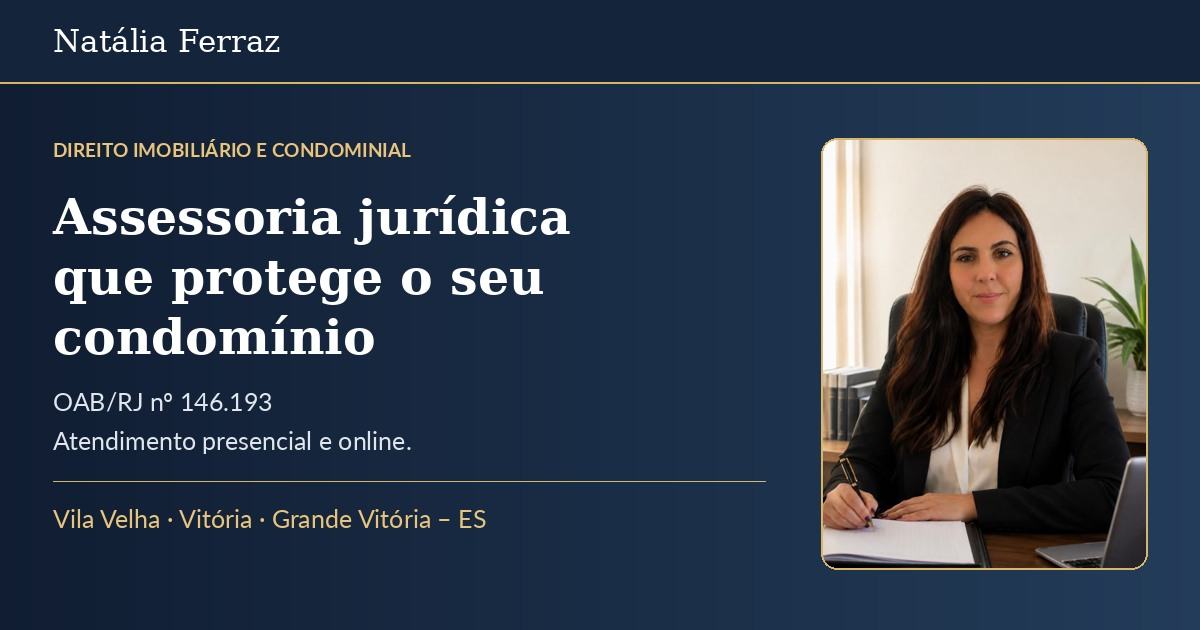
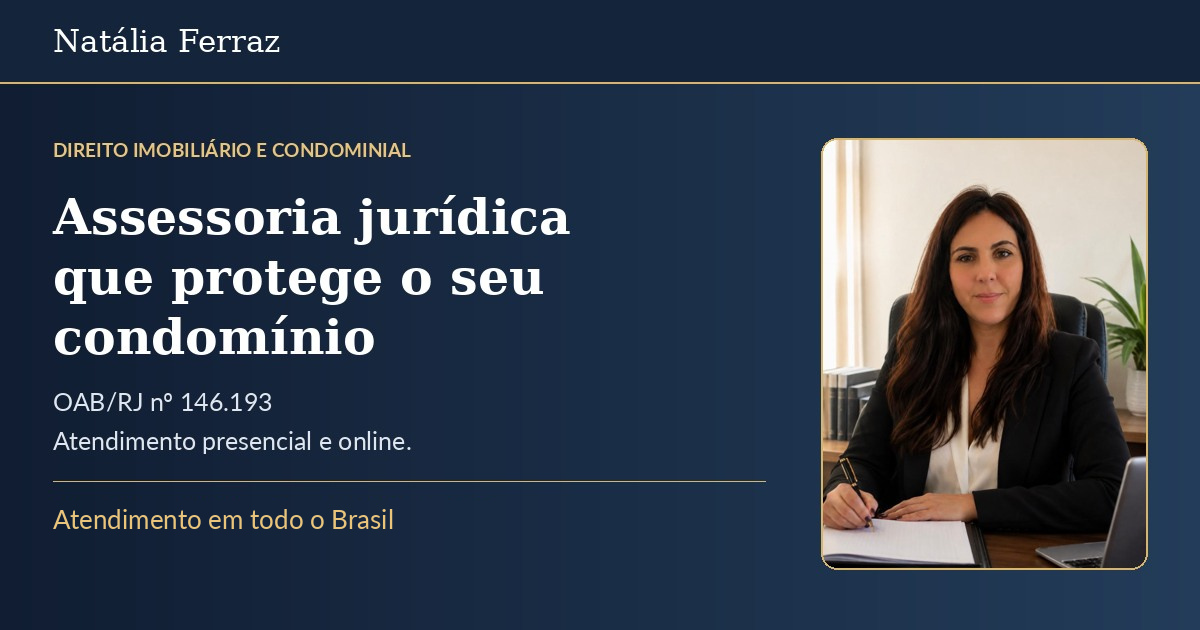
Add files via upload

Changed region(s): [[0.0308, 0.8143, 0.4008, 0.8444]]

diff --git a/index.html b/index.html
@@ -1,16 +1,16 @@
-<!doctype html><html lang="pt-BR"><head><meta charset="utf-8"/><meta content="width=device-width, initial-scale=1" name="viewport"/><meta content="Assessoria jurídica para condomínios, síndicos e administradoras em Vila Velha, Vitória e Grande Vitória – ES." name="description"/><title>Natália Ferraz | Advocacia Condominial e Imobiliária em Vila Velha e Vitória</title><link href="style.css" rel="stylesheet"/><style>.whatsapp-fixo{position:fixed!important;right:22px!important;bottom:22px!important;z-index:2147483000!important;display:flex!important;align-items:center!important;justify-content:center!important;width:64px!important;height:64px!important;min-width:64px!important;min-height:64px!important;box-sizing:border-box!important;padding:13px!important;border-radius:50%!important;background:#25D366!important;color:#fff!important;box-shadow:0 5px 20px rgba(0,0,0,.35)!important;visibility:visible!important;opacity:1!important;transform:none!important;text-decoration:none!important}.whatsapp-fixo svg{display:block!important;width:38px!important;height:38px!important;fill:#fff!important}.whatsapp-fixo .whatsapp-texto{display:none!important}.whatsapp-fixo:hover{background:#128C7E!important}@media(max-width:600px){.whatsapp-fixo{right:16px!important;bottom:16px!important;width:60px!important;height:60px!important;min-width:60px!important;min-height:60px!important}}</style>
+<!doctype html><html lang="pt-BR"><head><meta charset="utf-8"/><meta content="width=device-width, initial-scale=1" name="viewport"/><meta content="Assessoria jurídica para condomínios, síndicos e administradoras em Vila Velha, Vitória e Grande Vitória – ES." name="description"/><title>Natália Ferraz | Advocacia Condominial e Imobiliária</title><link href="style.css" rel="stylesheet"/><style>.whatsapp-fixo{position:fixed!important;right:22px!important;bottom:22px!important;z-index:2147483000!important;display:flex!important;align-items:center!important;justify-content:center!important;width:64px!important;height:64px!important;min-width:64px!important;min-height:64px!important;box-sizing:border-box!important;padding:13px!important;border-radius:50%!important;background:#25D366!important;color:#fff!important;box-shadow:0 5px 20px rgba(0,0,0,.35)!important;visibility:visible!important;opacity:1!important;transform:none!important;text-decoration:none!important}.whatsapp-fixo svg{display:block!important;width:38px!important;height:38px!important;fill:#fff!important}.whatsapp-fixo .whatsapp-texto{display:none!important}.whatsapp-fixo:hover{background:#128C7E!important}@media(max-width:600px){.whatsapp-fixo{right:16px!important;bottom:16px!important;width:60px!important;height:60px!important;min-width:60px!important;min-height:60px!important}}</style>
 <link href="https://www.nataliaferraz.com.br/" rel="canonical"/>
 <meta content="website" property="og:type"/>
 <meta content="Natália Ferraz" property="og:site_name"/>
-<meta content="Natália Ferraz | Advocacia Condominial e Imobiliária em Vila Velha e Vitória" property="og:title"/>
-<meta content="Assessoria jurídica para condomínios, síndicos e administradoras em Vila Velha, Vitória e Grande Vitória – ES." property="og:description"/>
+<meta content="Natália Ferraz | Advocacia Condominial e Imobiliária" property="og:title"/>
+<meta content="Assessoria jurídica para condomínios, síndicos e administradoras em todo o Brasil." property="og:description"/>
 <meta content="https://www.nataliaferraz.com.br/" property="og:url"/>
 <meta content="pt_BR" property="og:locale"/>
 <meta property="og:image" content="https://www.nataliaferraz.com.br/previa-whatsapp.jpg"/>
 <meta property="og:image:type" content="image/jpeg"/>
 <meta property="og:image:width" content="1200"/>
 <meta property="og:image:height" content="630"/>
-<meta property="og:image:alt" content="Natália Ferraz — Direito Imobiliário e Condominial, Vila Velha, Vitória e Grande Vitória"/>
+<meta property="og:image:alt" content="Natália Ferraz — Direito Imobiliário e Condominial, atendimento em todo o Brasil"/>
 
 <script type="application/ld+json">{"@context": "https://schema.org", "@type": "Person", "@id": "https://www.nataliaferraz.com.br/#advogada", "name": "Natália Ferraz", "url": "https://www.nataliaferraz.com.br/", "jobTitle": "Advogada", "image": "https://www.nataliaferraz.com.br/natalia.jpg", "knowsAbout": ["Direito Imobiliário", "Direito Condominial"], "telephone": "+55 24 99914-0991", "email": "nataliaferraz.adv@hotmail.com"}</script>
-<script type="application/ld+json">{"@context": "https://schema.org", "@type": "Service", "serviceType": "Assessoria jurídica imobiliária e condominial", "provider": {"@id": "https://www.nataliaferraz.com.br/#advogada"}, "areaServed": [{"@type": "City", "name": "Vila Velha, ES, Brasil"}, {"@type": "City", "name": "Vitória, ES, Brasil"}, {"@type": "AdministrativeArea", "name": "Grande Vitória, ES, Brasil"}, {"@type": "Country", "name": "Brasil"}]}</script></head><body><header><nav><a class="brand" href="index.html">Natália Ferraz</a><div class="links"><a href="index.html">Início</a><a href="assessoria.html">Por que assessoria</a><a href="sobre.html">Quem sou eu</a><a href="atuacao.html">Atuação</a><a href="planos.html">Modalidades</a><a href="contato.html">Contato</a></div></nav></header><section class="hero"><div class="wrap"><div class="eyebrow" style="color:#e8c47d">Direito Imobiliário e Condominial</div><h1>Assessoria jurídica que protege o seu condomínio</h1><p>Natália Ferraz — OAB/RJ nº 146.193 · Atendimento presencial e online.</p><p>Atuação em todo o território nacional, com especial atenção aos condomínios de Vila Velha, Vitória e demais municípios da Grande Vitória – ES.</p></div></section><section class="section alt"><div class="wrap foto-apresentacao"><img class="portrait" src="natalia.jpg" alt="Fotografia profissional de Natália Ferraz" width="970" height="1280" style="display:block;width:100%;max-width:350px;height:auto;border-radius:16px;margin:0 auto;"><div><h2>Conheça Natália Ferraz</h2><p>Advogada atuante em Direito Imobiliário e Condominial, OAB/RJ nº 146.193.</p><a class="btn" href="sobre.html">Conhecer sua trajetória</a></div></div></section><section aria-label="Experiência e atendimento" style="background:#14243b;color:#fff;padding:32px 24px;"><div class="wrap" style="display:grid;grid-template-columns:repeat(auto-fit,minmax(min(100%,230px),1fr));gap:26px;text-align:center;"><div><strong style="display:block;color:#d9b56a;font-family:Georgia,serif;font-size:clamp(2rem,4vw,3rem);line-height:1.2;">67+</strong><span>Condomínios atendidos</span></div><div><strong style="display:block;color:#d9b56a;font-family:Georgia,serif;font-size:clamp(2rem,4vw,3rem);line-height:1.2;">19 anos</strong><span>De atuação prática na advocacia</span></div><div><strong style="display:block;color:#d9b56a;font-family:Georgia,serif;font-size:clamp(2rem,4vw,3rem);line-height:1.2;">Até 24h</strong><span>Tempo de resposta</span></div></div></section><section class="section alt"><div class="wrap"><div class="eyebrow">Por que ter assessoria</div><h2>Decidir com segurança custa menos do que corrigir</h2><p>Uma orientação preventiva evita a notificação, a ação e o desgaste de assembleias tensas. Veja como a assessoria ajuda a sua gestão no dia a dia.</p><div class="grid"><article class="card" style="border:1px solid #d9b56a;border-radius:14px;padding:26px;text-align:center;display:flex;flex-direction:column;align-items:center;justify-content:center;background:#fff;box-shadow:0 4px 15px rgba(20,36,59,.08);"><div style="display:flex;align-items:center;justify-content:center;width:54px;height:54px;border-radius:12px;background:#14243b;color:#e8c47d;margin-bottom:16px;"><svg xmlns="http://www.w3.org/2000/svg" viewBox="0 0 24 24" width="30" height="30" fill="none" stroke="currentColor" stroke-width="1.6" stroke-linecap="round" stroke-linejoin="round" aria-hidden="true"><rect x="4" y="3" width="16" height="18" rx="2"/><path d="M8 7h8M8 11h2m4 0h2M8 15h2m4 0h2M8 18h2m4 0h2"/></svg></div><h3 style="margin:0;">Custo previsível</h3></article><article class="card" style="border:1px solid #d9b56a;border-radius:14px;padding:26px;text-align:center;display:flex;flex-direction:column;align-items:center;justify-content:center;background:#fff;box-shadow:0 4px 15px rgba(20,36,59,.08);"><div style="display:flex;align-items:center;justify-content:center;width:54px;height:54px;border-radius:12px;background:#14243b;color:#e8c47d;margin-bottom:16px;"><svg xmlns="http://www.w3.org/2000/svg" viewBox="0 0 24 24" width="30" height="30" fill="none" stroke="currentColor" stroke-width="1.6" stroke-linecap="round" stroke-linejoin="round" aria-hidden="true"><path d="M12 22s8-4 8-11V5l-8-3-8 3v6c0 7 8 11 8 11Z"/><path d="m8 12 3 3 5-6"/></svg></div><h3 style="margin:0;">Segurança nas decisões</h3></article><article class="card" style="border:1px solid #d9b56a;border-radius:14px;padding:26px;text-align:center;display:flex;flex-direction:column;align-items:center;justify-content:center;background:#fff;box-shadow:0 4px 15px rgba(20,36,59,.08);"><div style="display:flex;align-items:center;justify-content:center;width:54px;height:54px;border-radius:12px;background:#14243b;color:#e8c47d;margin-bottom:16px;"><svg xmlns="http://www.w3.org/2000/svg" viewBox="0 0 24 24" width="30" height="30" fill="none" stroke="currentColor" stroke-width="1.6" stroke-linecap="round" stroke-linejoin="round" aria-hidden="true"><path d="M21 11a7 7 0 0 1-7 7H7l-4 3v-7a7 7 0 0 1 7-7h4a7 7 0 0 1 7 4Z"/><path d="M8 12h8M8 15h5"/></svg></div><h3 style="margin:0;">Prevenção de conflitos</h3></article></div><p><a class="btn" href="assessoria.html">Entenda a assessoria</a><a class="btn secondary" href="https://wa.me/5524999140991?text=Ol%C3%A1%2C%20Dra.%20Nat%C3%A1lia%21%20Gostaria%20de%20informa%C3%A7%C3%B5es%20sobre%20assessoria%20jur%C3%ADdica." target="_blank" rel="noopener noreferrer">Falar com a advogada</a></p></div></section><section class="section "><div class="wrap"><h2>Conheça a atuação</h2><div class="grid"><article class="card" style="border:1px solid #d9b56a;border-radius:14px;padding:26px;text-align:center;display:flex;flex-direction:column;align-items:center;justify-content:center;background:#fff;box-shadow:0 4px 15px rgba(20,36,59,.08);"><div style="display:flex;align-items:center;justify-content:center;width:54px;height:54px;border-radius:12px;background:#14243b;color:#e8c47d;margin-bottom:16px;"><svg xmlns="http://www.w3.org/2000/svg" viewBox="0 0 24 24" width="30" height="30" fill="none" stroke="currentColor" stroke-width="1.6" stroke-linecap="round" stroke-linejoin="round" aria-hidden="true"><rect x="5" y="3" width="14" height="18" rx="2"/><path d="M9 8h6M9 12h6M9 16h4"/></svg></div><h3 style="margin:0;">Consultivo e extrajudicial</h3></article><article class="card" style="border:1px solid #d9b56a;border-radius:14px;padding:26px;text-align:center;display:flex;flex-direction:column;align-items:center;justify-content:center;background:#fff;box-shadow:0 4px 15px rgba(20,36,59,.08);"><div style="display:flex;align-items:center;justify-content:center;width:54px;height:54px;border-radius:12px;background:#14243b;color:#e8c47d;margin-bottom:16px;"><svg xmlns="http://www.w3.org/2000/svg" viewBox="0 0 24 24" width="30" height="30" fill="none" stroke="currentColor" stroke-width="1.6" stroke-linecap="round" stroke-linejoin="round" aria-hidden="true"><path d="M12 3v18M8 21h8M3 7h18M6 7l-4 8h8L6 7M18 7l-4 8h8l-4-8"/></svg></div><h3 style="margin:0;">Contencioso judicial</h3></article><article class="card" style="border:1px solid #d9b56a;border-radius:14px;padding:26px;text-align:center;display:flex;flex-direction:column;align-items:center;justify-content:center;background:#fff;box-shadow:0 4px 15px rgba(20,36,59,.08);"><div style="display:flex;align-items:center;justify-content:center;width:54px;height:54px;border-radius:12px;background:#14243b;color:#e8c47d;margin-bottom:16px;"><svg xmlns="http://www.w3.org/2000/svg" viewBox="0 0 24 24" width="30" height="30" fill="none" stroke="currentColor" stroke-width="1.6" stroke-linecap="round" stroke-linejoin="round" aria-hidden="true"><circle cx="12" cy="6" r="3"/><path d="M6 20v-3a6 6 0 0 1 12 0v3M4 9a3 3 0 0 0 0 6M20 9a3 3 0 0 1 0 6M2 20v-2M22 20v-2"/></svg></div><h3 style="margin:0;">Assembleias</h3></article></div><p><a class="btn" href="atuacao.html">Entenda a atuação</a></p></div></section><section class="section alt"><div class="wrap"><h2>Três modalidades de acompanhamento</h2><div class="grid"><article class="card"><h3>Essencial</h3><p>Consultoria jurídica preventiva.</p></article><article class="card"><h3>Gestão</h3><p>Consultoria com apoio em assembleias e cobrança.</p></article><article class="card"><h3>Integral</h3><p>Atuação jurídica ampliada, inclusive contenciosa, conforme contratação.</p></article></div><p><a class="btn" href="planos.html">Conhecer as modalidades</a></p></div></section><footer><div class="wrap"><strong>Natália Passos Ferraz</strong><p>Advocacia Imobiliária e Condominial · OAB/RJ nº 146.193</p><p><a href="contato.html">Contato</a> · <a href="mailto:nataliaferraz.adv@hotmail.com">E-mail</a> · <a href="https://wa.me/5524999140991?text=Ol%C3%A1%2C%20Dra.%20Nat%C3%A1lia%21%20Gostaria%20de%20informa%C3%A7%C3%B5es%20sobre%20assessoria%20jur%C3%ADdica." target="_blank" rel="noopener noreferrer">WhatsApp</a></p><small>© 2026 Natália Passos Ferraz. Todos os direitos reservados.</small></div></footer><a class="whatsapp-fixo" href="https://wa.me/5524999140991?text=Ol%C3%A1%2C%20Dra.%20Nat%C3%A1lia%21%20Gostaria%20de%20informa%C3%A7%C3%B5es%20sobre%20assessoria%20jur%C3%ADdica." target="_blank" rel="noopener noreferrer" aria-label="Conversar com Natália pelo WhatsApp"><svg xmlns="http://www.w3.org/2000/svg" viewBox="0 0 32 32" width="31" height="31" aria-hidden="true"><path fill="currentColor" d="M16.03 3.2A12.7 12.7 0 0 0 5.1 22.4L3.4 28.7l6.5-1.7a12.8 12.8 0 1 0 6.13-23.8Zm0 23.3a10.5 10.5 0 0 1-5.35-1.46l-.38-.23-3.87 1.02 1.03-3.77-.25-.39A10.56 10.56 0 1 1 16.03 26.5Zm5.8-7.9c-.32-.16-1.9-.94-2.2-1.04-.3-.11-.51-.16-.73.16-.22.32-.84 1.04-1.03 1.25-.19.21-.38.24-.7.08-.32-.16-1.36-.5-2.58-1.59-.95-.85-1.6-1.9-1.79-2.22-.19-.32-.02-.49.14-.65.14-.14.32-.37.48-.56.16-.19.21-.32.32-.53.11-.21.05-.4-.03-.56-.08-.16-.73-1.76-1-2.41-.26-.63-.53-.54-.73-.55h-.62c-.22 0-.56.08-.86.4-.3.32-1.13 1.11-1.13 2.71s1.16 3.15 1.32 3.36c.16.21 2.29 3.5 5.55 4.91.78.34 1.39.54 1.86.69.78.25 1.5.21 2.06.13.63-.09 1.9-.78 2.17-1.53.27-.75.27-1.39.19-1.53-.08-.13-.3-.21-.62-.37Z"/></svg><span class="whatsapp-texto">WhatsApp</span></a></body></html>
+<script type="application/ld+json">{"@context": "https://schema.org", "@type": "Service", "serviceType": "Assessoria jurídica imobiliária e condominial", "provider": {"@id": "https://www.nataliaferraz.com.br/#advogada"}, "areaServed": [{"@type": "City", "name": "Vila Velha, ES, Brasil"}, {"@type": "City", "name": "Vitória, ES, Brasil"}, {"@type": "AdministrativeArea", "name": "Grande Vitória, ES, Brasil"}, {"@type": "Country", "name": "Brasil"}]}</script></head><body><header><nav><a class="brand" href="index.html">Natália Ferraz</a><div class="links"><a href="index.html">Início</a><a href="assessoria.html">Por que assessoria</a><a href="sobre.html">Quem sou eu</a><a href="atuacao.html">Atuação</a><a href="planos.html">Modalidades</a><a href="contato.html">Contato</a></div></nav></header><section class="hero"><div class="wrap"><div class="eyebrow" style="color:#e8c47d">Direito Imobiliário e Condominial</div><h1>Assessoria jurídica que protege o seu condomínio</h1><p>Natália Ferraz — OAB/RJ nº 146.193 · Atendimento presencial e online.</p><p>Atuação em todo o território nacional.</p></div></section><section class="section alt"><div class="wrap foto-apresentacao"><img class="portrait" src="natalia.jpg" alt="Fotografia profissional de Natália Ferraz" width="970" height="1280" style="display:block;width:100%;max-width:350px;height:auto;border-radius:16px;margin:0 auto;"><div><h2>Conheça Natália Ferraz</h2><p>Advogada atuante em Direito Imobiliário e Condominial, OAB/RJ nº 146.193.</p><a class="btn" href="sobre.html">Conhecer sua trajetória</a></div></div></section><section aria-label="Experiência e atendimento" style="background:#14243b;color:#fff;padding:32px 24px;"><div class="wrap" style="display:grid;grid-template-columns:repeat(auto-fit,minmax(min(100%,230px),1fr));gap:26px;text-align:center;"><div><strong style="display:block;color:#d9b56a;font-family:Georgia,serif;font-size:clamp(2rem,4vw,3rem);line-height:1.2;">67+</strong><span>Condomínios atendidos</span></div><div><strong style="display:block;color:#d9b56a;font-family:Georgia,serif;font-size:clamp(2rem,4vw,3rem);line-height:1.2;">19 anos</strong><span>De atuação prática na advocacia</span></div><div><strong style="display:block;color:#d9b56a;font-family:Georgia,serif;font-size:clamp(2rem,4vw,3rem);line-height:1.2;">Até 24h</strong><span>Tempo de resposta</span></div></div></section><section class="section alt"><div class="wrap"><div class="eyebrow">Por que ter assessoria</div><h2>Decidir com segurança custa menos do que corrigir</h2><p>Uma orientação preventiva evita a notificação, a ação e o desgaste de assembleias tensas. Veja como a assessoria ajuda a sua gestão no dia a dia.</p><div class="grid"><article class="card" style="border:1px solid #d9b56a;border-radius:14px;padding:26px;text-align:center;display:flex;flex-direction:column;align-items:center;justify-content:center;background:#fff;box-shadow:0 4px 15px rgba(20,36,59,.08);"><div style="display:flex;align-items:center;justify-content:center;width:54px;height:54px;border-radius:12px;background:#14243b;color:#e8c47d;margin-bottom:16px;"><svg xmlns="http://www.w3.org/2000/svg" viewBox="0 0 24 24" width="30" height="30" fill="none" stroke="currentColor" stroke-width="1.6" stroke-linecap="round" stroke-linejoin="round" aria-hidden="true"><rect x="4" y="3" width="16" height="18" rx="2"/><path d="M8 7h8M8 11h2m4 0h2M8 15h2m4 0h2M8 18h2m4 0h2"/></svg></div><h3 style="margin:0;">Custo previsível</h3></article><article class="card" style="border:1px solid #d9b56a;border-radius:14px;padding:26px;text-align:center;display:flex;flex-direction:column;align-items:center;justify-content:center;background:#fff;box-shadow:0 4px 15px rgba(20,36,59,.08);"><div style="display:flex;align-items:center;justify-content:center;width:54px;height:54px;border-radius:12px;background:#14243b;color:#e8c47d;margin-bottom:16px;"><svg xmlns="http://www.w3.org/2000/svg" viewBox="0 0 24 24" width="30" height="30" fill="none" stroke="currentColor" stroke-width="1.6" stroke-linecap="round" stroke-linejoin="round" aria-hidden="true"><path d="M12 22s8-4 8-11V5l-8-3-8 3v6c0 7 8 11 8 11Z"/><path d="m8 12 3 3 5-6"/></svg></div><h3 style="margin:0;">Segurança nas decisões</h3></article><article class="card" style="border:1px solid #d9b56a;border-radius:14px;padding:26px;text-align:center;display:flex;flex-direction:column;align-items:center;justify-content:center;background:#fff;box-shadow:0 4px 15px rgba(20,36,59,.08);"><div style="display:flex;align-items:center;justify-content:center;width:54px;height:54px;border-radius:12px;background:#14243b;color:#e8c47d;margin-bottom:16px;"><svg xmlns="http://www.w3.org/2000/svg" viewBox="0 0 24 24" width="30" height="30" fill="none" stroke="currentColor" stroke-width="1.6" stroke-linecap="round" stroke-linejoin="round" aria-hidden="true"><path d="M21 11a7 7 0 0 1-7 7H7l-4 3v-7a7 7 0 0 1 7-7h4a7 7 0 0 1 7 4Z"/><path d="M8 12h8M8 15h5"/></svg></div><h3 style="margin:0;">Prevenção de conflitos</h3></article></div><p><a class="btn" href="assessoria.html">Entenda a assessoria</a><a class="btn secondary" href="https://wa.me/5524999140991?text=Ol%C3%A1%2C%20Dra.%20Nat%C3%A1lia%21%20Gostaria%20de%20informa%C3%A7%C3%B5es%20sobre%20assessoria%20jur%C3%ADdica." target="_blank" rel="noopener noreferrer">Falar com a advogada</a></p></div></section><section class="section "><div class="wrap"><h2>Conheça a atuação</h2><div class="grid"><article class="card" style="border:1px solid #d9b56a;border-radius:14px;padding:26px;text-align:center;display:flex;flex-direction:column;align-items:center;justify-content:center;background:#fff;box-shadow:0 4px 15px rgba(20,36,59,.08);"><div style="display:flex;align-items:center;justify-content:center;width:54px;height:54px;border-radius:12px;background:#14243b;color:#e8c47d;margin-bottom:16px;"><svg xmlns="http://www.w3.org/2000/svg" viewBox="0 0 24 24" width="30" height="30" fill="none" stroke="currentColor" stroke-width="1.6" stroke-linecap="round" stroke-linejoin="round" aria-hidden="true"><rect x="5" y="3" width="14" height="18" rx="2"/><path d="M9 8h6M9 12h6M9 16h4"/></svg></div><h3 style="margin:0;">Consultivo e extrajudicial</h3></article><article class="card" style="border:1px solid #d9b56a;border-radius:14px;padding:26px;text-align:center;display:flex;flex-direction:column;align-items:center;justify-content:center;background:#fff;box-shadow:0 4px 15px rgba(20,36,59,.08);"><div style="display:flex;align-items:center;justify-content:center;width:54px;height:54px;border-radius:12px;background:#14243b;color:#e8c47d;margin-bottom:16px;"><svg xmlns="http://www.w3.org/2000/svg" viewBox="0 0 24 24" width="30" height="30" fill="none" stroke="currentColor" stroke-width="1.6" stroke-linecap="round" stroke-linejoin="round" aria-hidden="true"><path d="M12 3v18M8 21h8M3 7h18M6 7l-4 8h8L6 7M18 7l-4 8h8l-4-8"/></svg></div><h3 style="margin:0;">Contencioso judicial</h3></article><article class="card" style="border:1px solid #d9b56a;border-radius:14px;padding:26px;text-align:center;display:flex;flex-direction:column;align-items:center;justify-content:center;background:#fff;box-shadow:0 4px 15px rgba(20,36,59,.08);"><div style="display:flex;align-items:center;justify-content:center;width:54px;height:54px;border-radius:12px;background:#14243b;color:#e8c47d;margin-bottom:16px;"><svg xmlns="http://www.w3.org/2000/svg" viewBox="0 0 24 24" width="30" height="30" fill="none" stroke="currentColor" stroke-width="1.6" stroke-linecap="round" stroke-linejoin="round" aria-hidden="true"><circle cx="12" cy="6" r="3"/><path d="M6 20v-3a6 6 0 0 1 12 0v3M4 9a3 3 0 0 0 0 6M20 9a3 3 0 0 1 0 6M2 20v-2M22 20v-2"/></svg></div><h3 style="margin:0;">Assembleias</h3></article></div><p><a class="btn" href="atuacao.html">Entenda a atuação</a></p></div></section><section class="section alt"><div class="wrap"><h2>Três modalidades de acompanhamento</h2><div class="grid"><article class="card"><h3>Essencial</h3><p>Consultoria jurídica preventiva.</p></article><article class="card"><h3>Gestão</h3><p>Consultoria com apoio em assembleias e cobrança.</p></article><article class="card"><h3>Integral</h3><p>Atuação jurídica ampliada, inclusive contenciosa, conforme contratação.</p></article></div><p><a class="btn" href="planos.html">Conhecer as modalidades</a></p></div></section><footer><div class="wrap"><strong>Natália Passos Ferraz</strong><p>Advocacia Imobiliária e Condominial · OAB/RJ nº 146.193</p><p><a href="contato.html">Contato</a> · <a href="mailto:nataliaferraz.adv@hotmail.com">E-mail</a> · <a href="https://wa.me/5524999140991?text=Ol%C3%A1%2C%20Dra.%20Nat%C3%A1lia%21%20Gostaria%20de%20informa%C3%A7%C3%B5es%20sobre%20assessoria%20jur%C3%ADdica." target="_blank" rel="noopener noreferrer">WhatsApp</a></p><small>© 2026 Natália Passos Ferraz. Todos os direitos reservados.</small></div></footer><a class="whatsapp-fixo" href="https://wa.me/5524999140991?text=Ol%C3%A1%2C%20Dra.%20Nat%C3%A1lia%21%20Gostaria%20de%20informa%C3%A7%C3%B5es%20sobre%20assessoria%20jur%C3%ADdica." target="_blank" rel="noopener noreferrer" aria-label="Conversar com Natália pelo WhatsApp"><svg xmlns="http://www.w3.org/2000/svg" viewBox="0 0 32 32" width="31" height="31" aria-hidden="true"><path fill="currentColor" d="M16.03 3.2A12.7 12.7 0 0 0 5.1 22.4L3.4 28.7l6.5-1.7a12.8 12.8 0 1 0 6.13-23.8Zm0 23.3a10.5 10.5 0 0 1-5.35-1.46l-.38-.23-3.87 1.02 1.03-3.77-.25-.39A10.56 10.56 0 1 1 16.03 26.5Zm5.8-7.9c-.32-.16-1.9-.94-2.2-1.04-.3-.11-.51-.16-.73.16-.22.32-.84 1.04-1.03 1.25-.19.21-.38.24-.7.08-.32-.16-1.36-.5-2.58-1.59-.95-.85-1.6-1.9-1.79-2.22-.19-.32-.02-.49.14-.65.14-.14.32-.37.48-.56.16-.19.21-.32.32-.53.11-.21.05-.4-.03-.56-.08-.16-.73-1.76-1-2.41-.26-.63-.53-.54-.73-.55h-.62c-.22 0-.56.08-.86.4-.3.32-1.13 1.11-1.13 2.71s1.16 3.15 1.32 3.36c.16.21 2.29 3.5 5.55 4.91.78.34 1.39.54 1.86.69.78.25 1.5.21 2.06.13.63-.09 1.9-.78 2.17-1.53.27-.75.27-1.39.19-1.53-.08-.13-.3-.21-.62-.37Z"/></svg><span class="whatsapp-texto">WhatsApp</span></a></body></html>

diff --git a/sobre.html b/sobre.html
@@ -1,10 +1,10 @@
 <!DOCTYPE html>
-<html lang="pt-BR"><head><meta charset="utf-8"/><meta content="width=device-width, initial-scale=1" name="viewport"/><meta content="Conheça a trajetória e formação de Natália Ferraz, OAB/RJ nº 146.193, com atuação na Grande Vitória – ES." name="description"/><title>Natália Ferraz | Advogada Imobiliária e Condominial em Vila Velha e Vitória</title><link href="style.css" rel="stylesheet"/><style id="whatsapp-flutuante-estilo">.whatsapp-fixo{position:fixed!important;right:22px!important;bottom:22px!important;z-index:2147483000!important;display:flex!important;align-items:center!important;justify-content:center!important;width:64px!important;height:64px!important;min-width:64px!important;min-height:64px!important;box-sizing:border-box!important;padding:13px!important;border-radius:50%!important;background:#25D366!important;color:#fff!important;box-shadow:0 5px 20px rgba(0,0,0,.35)!important;visibility:visible!important;opacity:1!important;transform:none!important;text-decoration:none!important}.whatsapp-fixo svg{display:block!important;width:38px!important;height:38px!important;fill:#fff!important}.whatsapp-fixo .whatsapp-texto{display:none!important}.whatsapp-fixo:hover{background:#128C7E!important}@media(max-width:600px){.whatsapp-fixo{right:16px!important;bottom:16px!important;width:60px!important;height:60px!important;min-width:60px!important;min-height:60px!important}}</style><style>@media(max-width:650px){.retrato-natalia{float:none!important;width:min(100%,320px)!important;margin:0 auto 24px!important}}</style>
+<html lang="pt-BR"><head><meta charset="utf-8"/><meta content="width=device-width, initial-scale=1" name="viewport"/><meta content="Conheça a trajetória e formação de Natália Ferraz, OAB/RJ nº 146.193, com atuação na Grande Vitória – ES." name="description"/><title>Natália Ferraz | Advogada Imobiliária e Condominial</title><link href="style.css" rel="stylesheet"/><style id="whatsapp-flutuante-estilo">.whatsapp-fixo{position:fixed!important;right:22px!important;bottom:22px!important;z-index:2147483000!important;display:flex!important;align-items:center!important;justify-content:center!important;width:64px!important;height:64px!important;min-width:64px!important;min-height:64px!important;box-sizing:border-box!important;padding:13px!important;border-radius:50%!important;background:#25D366!important;color:#fff!important;box-shadow:0 5px 20px rgba(0,0,0,.35)!important;visibility:visible!important;opacity:1!important;transform:none!important;text-decoration:none!important}.whatsapp-fixo svg{display:block!important;width:38px!important;height:38px!important;fill:#fff!important}.whatsapp-fixo .whatsapp-texto{display:none!important}.whatsapp-fixo:hover{background:#128C7E!important}@media(max-width:600px){.whatsapp-fixo{right:16px!important;bottom:16px!important;width:60px!important;height:60px!important;min-width:60px!important;min-height:60px!important}}</style><style>@media(max-width:650px){.retrato-natalia{float:none!important;width:min(100%,320px)!important;margin:0 auto 24px!important}}</style>
 <link href="https://www.nataliaferraz.com.br/sobre.html" rel="canonical"/>
 <meta content="website" property="og:type"/>
 <meta content="Natália Ferraz" property="og:site_name"/>
-<meta content="Natália Ferraz | Advogada Imobiliária e Condominial em Vila Velha e Vitória" property="og:title"/>
-<meta content="Conheça a trajetória e formação de Natália Ferraz, OAB/RJ nº 146.193, com atuação na Grande Vitória – ES." property="og:description"/>
+<meta content="Natália Ferraz | Advogada Imobiliária e Condominial" property="og:title"/>
+<meta content="Conheça a trajetória e formação de Natália Ferraz, OAB/RJ nº 146.193, com atuação em todo o Brasil." property="og:description"/>
 <meta content="https://www.nataliaferraz.com.br/sobre.html" property="og:url"/>
 <meta content="pt_BR" property="og:locale"/>
-</head><body><header><nav><a class="brand" href="index.html">Natália Ferraz</a><div class="links"><a href="index.html">Início</a><a href="assessoria.html">Por que assessoria</a><a href="sobre.html">Quem sou eu</a><a href="atuacao.html">Atuação</a><a href="planos.html">Modalidades</a><a href="contato.html">Contato</a></div></nav></header><div class="wrap" style="padding-top:16px;padding-bottom:16px"><a href="index.html" onclick="if(document.referrer){try{var u=new URL(document.referrer);if(u.origin===location.origin &amp;&amp; history.length&gt;1){history.back();return false;}}catch(e){}}" style="display:inline-flex;align-items:center;gap:8px;border:1px solid #b99a60;border-radius:7px;padding:8px 16px;color:#14243b;background:#fff;text-decoration:none;font-weight:600"><span aria-hidden="true" style="color:#a08040">&#8592;</span> Voltar</a></div><section class="hero"><div class="wrap"><div class="eyebrow" style="color:#e8c47d">Quem sou eu</div><h1>Natália Ferraz</h1><p>Advogada · Direito Imobiliário e Condominial</p></div></section><section class="section"><div class="wrap"><figure style="float:right;width:min(38%,320px);margin:0 0 24px 28px" class="retrato-natalia"><img src="natalia.jpg" alt="Fotografia profissional de Natália Ferraz" width="970" height="1280" style="display:block;width:100%;height:auto;border-radius:8px"></figure><h2>Trajetória profissional</h2><p>Nascida em Volta Redonda, no Rio de Janeiro, sou formada há 19 anos e construí minha atuação prática na advocacia com foco no Direito Imobiliário e Condominial. Atuo tanto no âmbito consultivo e extrajudicial, orientando síndicos e administradoras nas decisões do dia a dia, quanto no contencioso judicial, na condução de cobranças, execuções e defesas cíveis.</p><p>Hoje acompanho mais de 67 condomínios, o que me deu um repertório que nenhum manual entrega: as assembleias tensas, a inadimplência que aperta o caixa, o conflito entre vizinhos que vira processo. É esse conhecimento acumulado que coloco à disposição da sua gestão.</p><p>Minha atuação abrange todo o território nacional, com especial atenção aos condomínios de Vila Velha, Vitória e demais municípios da Grande Vitória – ES.</p></div></section><section class="section alt"><div class="wrap"><h2>Formação e participação institucional</h2><ul><li>Pós-graduação em Direito Condominial</li><li>Pós-graduação em Direito Negocial e Imobiliário</li><li>Graduação em Francês e Cultura Francesa — Université Sorbonne Nouvelle, Paris</li></ul><h3>Formação multidisciplinar, não apenas jurídica.</h3><p>A pós-graduação em Direito Condominial sustenta a técnica; a pós em Direito Negocial e Imobiliário amplia a leitura de contratos, incorporações e negociações; e a graduação em Francês e Cultura Francesa pela Université Sorbonne Nouvelle, em Paris, agrega a capacidade de atuar com documentação e interlocutores estrangeiros — um diferencial real em condomínios com moradores, investidores ou prestadores internacionais, e um repertório de comunicação que ajuda em qualquer negociação difícil.</p><p><a href="https://www.linkedin.com/in/nat%C3%A1lia-passos-ferraz-a0046643b/" rel="noopener noreferrer" target="_blank">Perfil profissional no LinkedIn</a></p><p>Participação institucional: Integrante da Comissão de Direito Condominial da OAB/VRRJ</p></div></section><footer><div class="wrap"><strong>Natália Passos Ferraz</strong><p>Advocacia Imobiliária e Condominial · OAB/RJ nº 146.193</p><p><a href="contato.html">Contato</a> · <a href="mailto:nataliaferraz.adv@hotmail.com">E-mail</a> · <a href="https://wa.me/5524999140991?text=Ol%C3%A1%2C%20Dra.%20Nat%C3%A1lia%21%20Gostaria%20de%20informa%C3%A7%C3%B5es%20sobre%20assessoria%20jur%C3%ADdica." rel="noopener noreferrer" target="_blank">WhatsApp</a></p><small>© 2026 Natália Passos Ferraz. Todos os direitos reservados.</small></div></footer><a aria-label="Conversar com Natália pelo WhatsApp" class="whatsapp-fixo" href="https://wa.me/5524999140991?text=Ol%C3%A1%2C%20Dra.%20Nat%C3%A1lia%21%20Gostaria%20de%20informa%C3%A7%C3%B5es%20sobre%20assessoria%20jur%C3%ADdica." rel="noopener noreferrer" target="_blank"><svg aria-hidden="true" height="31" viewBox="0 0 32 32" width="31" xmlns="http://www.w3.org/2000/svg"><path d="M16.03 3.2A12.7 12.7 0 0 0 5.1 22.4L3.4 28.7l6.5-1.7a12.8 12.8 0 1 0 6.13-23.8Zm0 23.3a10.5 10.5 0 0 1-5.35-1.46l-.38-.23-3.87 1.02 1.03-3.77-.25-.39A10.56 10.56 0 1 1 16.03 26.5Zm5.8-7.9c-.32-.16-1.9-.94-2.2-1.04-.3-.11-.51-.16-.73.16-.22.32-.84 1.04-1.03 1.25-.19.21-.38.24-.7.08-.32-.16-1.36-.5-2.58-1.59-.95-.85-1.6-1.9-1.79-2.22-.19-.32-.02-.49.14-.65.14-.14.32-.37.48-.56.16-.19.21-.32.32-.53.11-.21.05-.4-.03-.56-.08-.16-.73-1.76-1-2.41-.26-.63-.53-.54-.73-.55h-.62c-.22 0-.56.08-.86.4-.3.32-1.13 1.11-1.13 2.71s1.16 3.15 1.32 3.36c.16.21 2.29 3.5 5.55 4.91.78.34 1.39.54 1.86.69.78.25 1.5.21 2.06.13.63-.09 1.9-.78 2.17-1.53.27-.75.27-1.39.19-1.53-.08-.13-.3-.21-.62-.37Z" fill="currentColor"></path></svg><span class="whatsapp-texto">WhatsApp</span></a></body></html>
+</head><body><header><nav><a class="brand" href="index.html">Natália Ferraz</a><div class="links"><a href="index.html">Início</a><a href="assessoria.html">Por que assessoria</a><a href="sobre.html">Quem sou eu</a><a href="atuacao.html">Atuação</a><a href="planos.html">Modalidades</a><a href="contato.html">Contato</a></div></nav></header><div class="wrap" style="padding-top:16px;padding-bottom:16px"><a href="index.html" onclick="if(document.referrer){try{var u=new URL(document.referrer);if(u.origin===location.origin &amp;&amp; history.length&gt;1){history.back();return false;}}catch(e){}}" style="display:inline-flex;align-items:center;gap:8px;border:1px solid #b99a60;border-radius:7px;padding:8px 16px;color:#14243b;background:#fff;text-decoration:none;font-weight:600"><span aria-hidden="true" style="color:#a08040">&#8592;</span> Voltar</a></div><section class="hero"><div class="wrap"><div class="eyebrow" style="color:#e8c47d">Quem sou eu</div><h1>Natália Ferraz</h1><p>Advogada · Direito Imobiliário e Condominial</p></div></section><section class="section"><div class="wrap"><figure style="float:right;width:min(38%,320px);margin:0 0 24px 28px" class="retrato-natalia"><img src="natalia.jpg" alt="Fotografia profissional de Natália Ferraz" width="970" height="1280" style="display:block;width:100%;height:auto;border-radius:8px"></figure><h2>Trajetória profissional</h2><p>Nascida em Volta Redonda, no Rio de Janeiro, sou formada há 19 anos e construí minha atuação prática na advocacia com foco no Direito Imobiliário e Condominial. Atuo tanto no âmbito consultivo e extrajudicial, orientando síndicos e administradoras nas decisões do dia a dia, quanto no contencioso judicial, na condução de cobranças, execuções e defesas cíveis.</p><p>Hoje acompanho mais de 67 condomínios, o que me deu um repertório que nenhum manual entrega: as assembleias tensas, a inadimplência que aperta o caixa, o conflito entre vizinhos que vira processo. É esse conhecimento acumulado que coloco à disposição da sua gestão.</p><p>Minha atuação abrange todo o território nacional, com atendimento presencial e online.</p></div></section><section class="section alt"><div class="wrap"><h2>Formação e participação institucional</h2><ul><li>Pós-graduação em Direito Condominial</li><li>Pós-graduação em Direito Negocial e Imobiliário</li><li>Graduação em Francês e Cultura Francesa — Université Sorbonne Nouvelle, Paris</li></ul><h3>Formação multidisciplinar, não apenas jurídica.</h3><p>A pós-graduação em Direito Condominial sustenta a técnica; a pós em Direito Negocial e Imobiliário amplia a leitura de contratos, incorporações e negociações; e a graduação em Francês e Cultura Francesa pela Université Sorbonne Nouvelle, em Paris, agrega a capacidade de atuar com documentação e interlocutores estrangeiros — um diferencial real em condomínios com moradores, investidores ou prestadores internacionais, e um repertório de comunicação que ajuda em qualquer negociação difícil.</p><p><a href="https://www.linkedin.com/in/nat%C3%A1lia-passos-ferraz-a0046643b/" rel="noopener noreferrer" target="_blank">Perfil profissional no LinkedIn</a></p><p>Participação institucional: Integrante da Comissão de Direito Condominial da OAB/VRRJ</p></div></section><footer><div class="wrap"><strong>Natália Passos Ferraz</strong><p>Advocacia Imobiliária e Condominial · OAB/RJ nº 146.193</p><p><a href="contato.html">Contato</a> · <a href="mailto:nataliaferraz.adv@hotmail.com">E-mail</a> · <a href="https://wa.me/5524999140991?text=Ol%C3%A1%2C%20Dra.%20Nat%C3%A1lia%21%20Gostaria%20de%20informa%C3%A7%C3%B5es%20sobre%20assessoria%20jur%C3%ADdica." rel="noopener noreferrer" target="_blank">WhatsApp</a></p><small>© 2026 Natália Passos Ferraz. Todos os direitos reservados.</small></div></footer><a aria-label="Conversar com Natália pelo WhatsApp" class="whatsapp-fixo" href="https://wa.me/5524999140991?text=Ol%C3%A1%2C%20Dra.%20Nat%C3%A1lia%21%20Gostaria%20de%20informa%C3%A7%C3%B5es%20sobre%20assessoria%20jur%C3%ADdica." rel="noopener noreferrer" target="_blank"><svg aria-hidden="true" height="31" viewBox="0 0 32 32" width="31" xmlns="http://www.w3.org/2000/svg"><path d="M16.03 3.2A12.7 12.7 0 0 0 5.1 22.4L3.4 28.7l6.5-1.7a12.8 12.8 0 1 0 6.13-23.8Zm0 23.3a10.5 10.5 0 0 1-5.35-1.46l-.38-.23-3.87 1.02 1.03-3.77-.25-.39A10.56 10.56 0 1 1 16.03 26.5Zm5.8-7.9c-.32-.16-1.9-.94-2.2-1.04-.3-.11-.51-.16-.73.16-.22.32-.84 1.04-1.03 1.25-.19.21-.38.24-.7.08-.32-.16-1.36-.5-2.58-1.59-.95-.85-1.6-1.9-1.79-2.22-.19-.32-.02-.49.14-.65.14-.14.32-.37.48-.56.16-.19.21-.32.32-.53.11-.21.05-.4-.03-.56-.08-.16-.73-1.76-1-2.41-.26-.63-.53-.54-.73-.55h-.62c-.22 0-.56.08-.86.4-.3.32-1.13 1.11-1.13 2.71s1.16 3.15 1.32 3.36c.16.21 2.29 3.5 5.55 4.91.78.34 1.39.54 1.86.69.78.25 1.5.21 2.06.13.63-.09 1.9-.78 2.17-1.53.27-.75.27-1.39.19-1.53-.08-.13-.3-.21-.62-.37Z" fill="currentColor"></path></svg><span class="whatsapp-texto">WhatsApp</span></a></body></html>

diff --git a/contato.html b/contato.html
@@ -1,9 +1,9 @@
-<!doctype html><html lang="pt-BR"><head><meta charset="utf-8"/><meta content="width=device-width, initial-scale=1" name="viewport"/><meta content="Contato para assessoria jurídica imobiliária e condominial em Vila Velha, Vitória e Grande Vitória – ES." name="description"/><title>Contato | Natália Ferraz – Advocacia em Vila Velha e Vitória</title><link href="style.css" rel="stylesheet"/>
+<!doctype html><html lang="pt-BR"><head><meta charset="utf-8"/><meta content="width=device-width, initial-scale=1" name="viewport"/><meta content="Contato para assessoria jurídica imobiliária e condominial em Vila Velha, Vitória e Grande Vitória – ES." name="description"/><title>Contato | Natália Ferraz – Advocacia</title><link href="style.css" rel="stylesheet"/>
 <link href="https://www.nataliaferraz.com.br/contato.html" rel="canonical"/>
 <meta content="website" property="og:type"/>
 <meta content="Natália Ferraz" property="og:site_name"/>
-<meta content="Contato | Natália Ferraz – Advocacia em Vila Velha e Vitória" property="og:title"/>
-<meta content="Contato para assessoria jurídica imobiliária e condominial em Vila Velha, Vitória e Grande Vitória – ES." property="og:description"/>
+<meta content="Contato | Natália Ferraz – Advocacia" property="og:title"/>
+<meta content="Contato para assessoria jurídica imobiliária e condominial em todo o Brasil." property="og:description"/>
 <meta content="https://www.nataliaferraz.com.br/contato.html" property="og:url"/>
 <meta content="pt_BR" property="og:locale"/>
-</head><body><header><nav><a class="brand" href="index.html">Natália Ferraz</a><div class="links"><a href="index.html">Início</a><a href="assessoria.html">Por que assessoria</a><a href="sobre.html">Quem sou eu</a><a href="atuacao.html">Atuação</a><a href="planos.html">Modalidades</a><a href="contato.html">Contato</a></div></nav></header><div class="wrap" style="padding-top:16px;padding-bottom:16px"><a href="index.html" onclick="if(document.referrer){try{var u=new URL(document.referrer);if(u.origin===location.origin &amp;&amp; history.length&gt;1){history.back();return false;}}catch(e){}}" style="display:inline-flex;align-items:center;gap:8px;border:1px solid #b99a60;border-radius:7px;padding:8px 16px;color:#14243b;background:#fff;text-decoration:none;font-weight:600"><span aria-hidden="true" style="color:#a08040">&#8592;</span> Voltar</a></div><section class="hero"><div class="wrap"><div class="eyebrow" style="color:#e8c47d">Contato</div><h1>Vamos conversar sobre o seu condomínio?</h1><p>Entre em contato para apresentar as necessidades da gestão.</p></div></section><section class="section "><div class="wrap"><h2>Canais de atendimento</h2><div class="grid"><article class="card"><h3>WhatsApp</h3><p><a href="https://wa.me/5524999140991?text=Ol%C3%A1%2C%20Dra.%20Nat%C3%A1lia%21%20Gostaria%20de%20informa%C3%A7%C3%B5es%20sobre%20assessoria%20jur%C3%ADdica." target="_blank" rel="noopener noreferrer">(24) 99914-0991</a></p></article><article class="card"><h3>E-mail</h3><p><a href="mailto:nataliaferraz.adv@hotmail.com">nataliaferraz.adv@hotmail.com</a></p></article><article class="card"><h3>Registro profissional</h3><p>OAB/RJ nº 146.193</p></article><article class="card"><h3>Atendimento</h3><p>Presencial e online, mediante agendamento.</p><p>Atendimento em todo o Brasil, com foco em Vila Velha, Vitória e demais municípios da Grande Vitória – ES.</p></article></div><p><a class="btn" href="https://wa.me/5524999140991?text=Ol%C3%A1%2C%20Dra.%20Nat%C3%A1lia%21%20Gostaria%20de%20informa%C3%A7%C3%B5es%20sobre%20assessoria%20jur%C3%ADdica." target="_blank" rel="noopener noreferrer">Enviar mensagem pelo WhatsApp</a></p><p><a class="btn secondary" href="mailto:nataliaferraz.adv@hotmail.com">Enviar e-mail</a></p></div></section><footer><div class="wrap"><strong>Natália Passos Ferraz</strong><p>Advocacia Imobiliária e Condominial · OAB/RJ nº 146.193</p><p><a href="contato.html">Contato</a> · <a href="mailto:nataliaferraz.adv@hotmail.com">E-mail</a> · <a href="https://wa.me/5524999140991?text=Ol%C3%A1%2C%20Dra.%20Nat%C3%A1lia%21%20Gostaria%20de%20informa%C3%A7%C3%B5es%20sobre%20assessoria%20jur%C3%ADdica." target="_blank" rel="noopener noreferrer">WhatsApp</a></p><small>© 2026 Natália Passos Ferraz. Todos os direitos reservados.</small></div></footer><a class="whatsapp-fixo" href="https://wa.me/5524999140991?text=Ol%C3%A1%2C%20Dra.%20Nat%C3%A1lia%21%20Gostaria%20de%20informa%C3%A7%C3%B5es%20sobre%20assessoria%20jur%C3%ADdica." target="_blank" rel="noopener noreferrer" aria-label="Conversar com Natália pelo WhatsApp"><svg xmlns="http://www.w3.org/2000/svg" viewBox="0 0 32 32" width="31" height="31" aria-hidden="true"><path fill="currentColor" d="M16.03 3.2A12.7 12.7 0 0 0 5.1 22.4L3.4 28.7l6.5-1.7a12.8 12.8 0 1 0 6.13-23.8Zm0 23.3a10.5 10.5 0 0 1-5.35-1.46l-.38-.23-3.87 1.02 1.03-3.77-.25-.39A10.56 10.56 0 1 1 16.03 26.5Zm5.8-7.9c-.32-.16-1.9-.94-2.2-1.04-.3-.11-.51-.16-.73.16-.22.32-.84 1.04-1.03 1.25-.19.21-.38.24-.7.08-.32-.16-1.36-.5-2.58-1.59-.95-.85-1.6-1.9-1.79-2.22-.19-.32-.02-.49.14-.65.14-.14.32-.37.48-.56.16-.19.21-.32.32-.53.11-.21.05-.4-.03-.56-.08-.16-.73-1.76-1-2.41-.26-.63-.53-.54-.73-.55h-.62c-.22 0-.56.08-.86.4-.3.32-1.13 1.11-1.13 2.71s1.16 3.15 1.32 3.36c.16.21 2.29 3.5 5.55 4.91.78.34 1.39.54 1.86.69.78.25 1.5.21 2.06.13.63-.09 1.9-.78 2.17-1.53.27-.75.27-1.39.19-1.53-.08-.13-.3-.21-.62-.37Z"/></svg><span class="whatsapp-texto">WhatsApp</span></a></body></html>
+</head><body><header><nav><a class="brand" href="index.html">Natália Ferraz</a><div class="links"><a href="index.html">Início</a><a href="assessoria.html">Por que assessoria</a><a href="sobre.html">Quem sou eu</a><a href="atuacao.html">Atuação</a><a href="planos.html">Modalidades</a><a href="contato.html">Contato</a></div></nav></header><div class="wrap" style="padding-top:16px;padding-bottom:16px"><a href="index.html" onclick="if(document.referrer){try{var u=new URL(document.referrer);if(u.origin===location.origin &amp;&amp; history.length&gt;1){history.back();return false;}}catch(e){}}" style="display:inline-flex;align-items:center;gap:8px;border:1px solid #b99a60;border-radius:7px;padding:8px 16px;color:#14243b;background:#fff;text-decoration:none;font-weight:600"><span aria-hidden="true" style="color:#a08040">&#8592;</span> Voltar</a></div><section class="hero"><div class="wrap"><div class="eyebrow" style="color:#e8c47d">Contato</div><h1>Vamos conversar sobre o seu condomínio?</h1><p>Entre em contato para apresentar as necessidades da gestão.</p></div></section><section class="section "><div class="wrap"><h2>Canais de atendimento</h2><div class="grid"><article class="card"><h3>WhatsApp</h3><p><a href="https://wa.me/5524999140991?text=Ol%C3%A1%2C%20Dra.%20Nat%C3%A1lia%21%20Gostaria%20de%20informa%C3%A7%C3%B5es%20sobre%20assessoria%20jur%C3%ADdica." target="_blank" rel="noopener noreferrer">(24) 99914-0991</a></p></article><article class="card"><h3>E-mail</h3><p><a href="mailto:nataliaferraz.adv@hotmail.com">nataliaferraz.adv@hotmail.com</a></p></article><article class="card"><h3>Registro profissional</h3><p>OAB/RJ nº 146.193</p></article><article class="card"><h3>Atendimento</h3><p>Presencial e online, mediante agendamento.</p><p>Atendimento online em todo o Brasil.</p></article></div><p><a class="btn" href="https://wa.me/5524999140991?text=Ol%C3%A1%2C%20Dra.%20Nat%C3%A1lia%21%20Gostaria%20de%20informa%C3%A7%C3%B5es%20sobre%20assessoria%20jur%C3%ADdica." target="_blank" rel="noopener noreferrer">Enviar mensagem pelo WhatsApp</a></p><p><a class="btn secondary" href="mailto:nataliaferraz.adv@hotmail.com">Enviar e-mail</a></p></div></section><footer><div class="wrap"><strong>Natália Passos Ferraz</strong><p>Advocacia Imobiliária e Condominial · OAB/RJ nº 146.193</p><p><a href="contato.html">Contato</a> · <a href="mailto:nataliaferraz.adv@hotmail.com">E-mail</a> · <a href="https://wa.me/5524999140991?text=Ol%C3%A1%2C%20Dra.%20Nat%C3%A1lia%21%20Gostaria%20de%20informa%C3%A7%C3%B5es%20sobre%20assessoria%20jur%C3%ADdica." target="_blank" rel="noopener noreferrer">WhatsApp</a></p><small>© 2026 Natália Passos Ferraz. Todos os direitos reservados.</small></div></footer><a class="whatsapp-fixo" href="https://wa.me/5524999140991?text=Ol%C3%A1%2C%20Dra.%20Nat%C3%A1lia%21%20Gostaria%20de%20informa%C3%A7%C3%B5es%20sobre%20assessoria%20jur%C3%ADdica." target="_blank" rel="noopener noreferrer" aria-label="Conversar com Natália pelo WhatsApp"><svg xmlns="http://www.w3.org/2000/svg" viewBox="0 0 32 32" width="31" height="31" aria-hidden="true"><path fill="currentColor" d="M16.03 3.2A12.7 12.7 0 0 0 5.1 22.4L3.4 28.7l6.5-1.7a12.8 12.8 0 1 0 6.13-23.8Zm0 23.3a10.5 10.5 0 0 1-5.35-1.46l-.38-.23-3.87 1.02 1.03-3.77-.25-.39A10.56 10.56 0 1 1 16.03 26.5Zm5.8-7.9c-.32-.16-1.9-.94-2.2-1.04-.3-.11-.51-.16-.73.16-.22.32-.84 1.04-1.03 1.25-.19.21-.38.24-.7.08-.32-.16-1.36-.5-2.58-1.59-.95-.85-1.6-1.9-1.79-2.22-.19-.32-.02-.49.14-.65.14-.14.32-.37.48-.56.16-.19.21-.32.32-.53.11-.21.05-.4-.03-.56-.08-.16-.73-1.76-1-2.41-.26-.63-.53-.54-.73-.55h-.62c-.22 0-.56.08-.86.4-.3.32-1.13 1.11-1.13 2.71s1.16 3.15 1.32 3.36c.16.21 2.29 3.5 5.55 4.91.78.34 1.39.54 1.86.69.78.25 1.5.21 2.06.13.63-.09 1.9-.78 2.17-1.53.27-.75.27-1.39.19-1.53-.08-.13-.3-.21-.62-.37Z"/></svg><span class="whatsapp-texto">WhatsApp</span></a></body></html>
